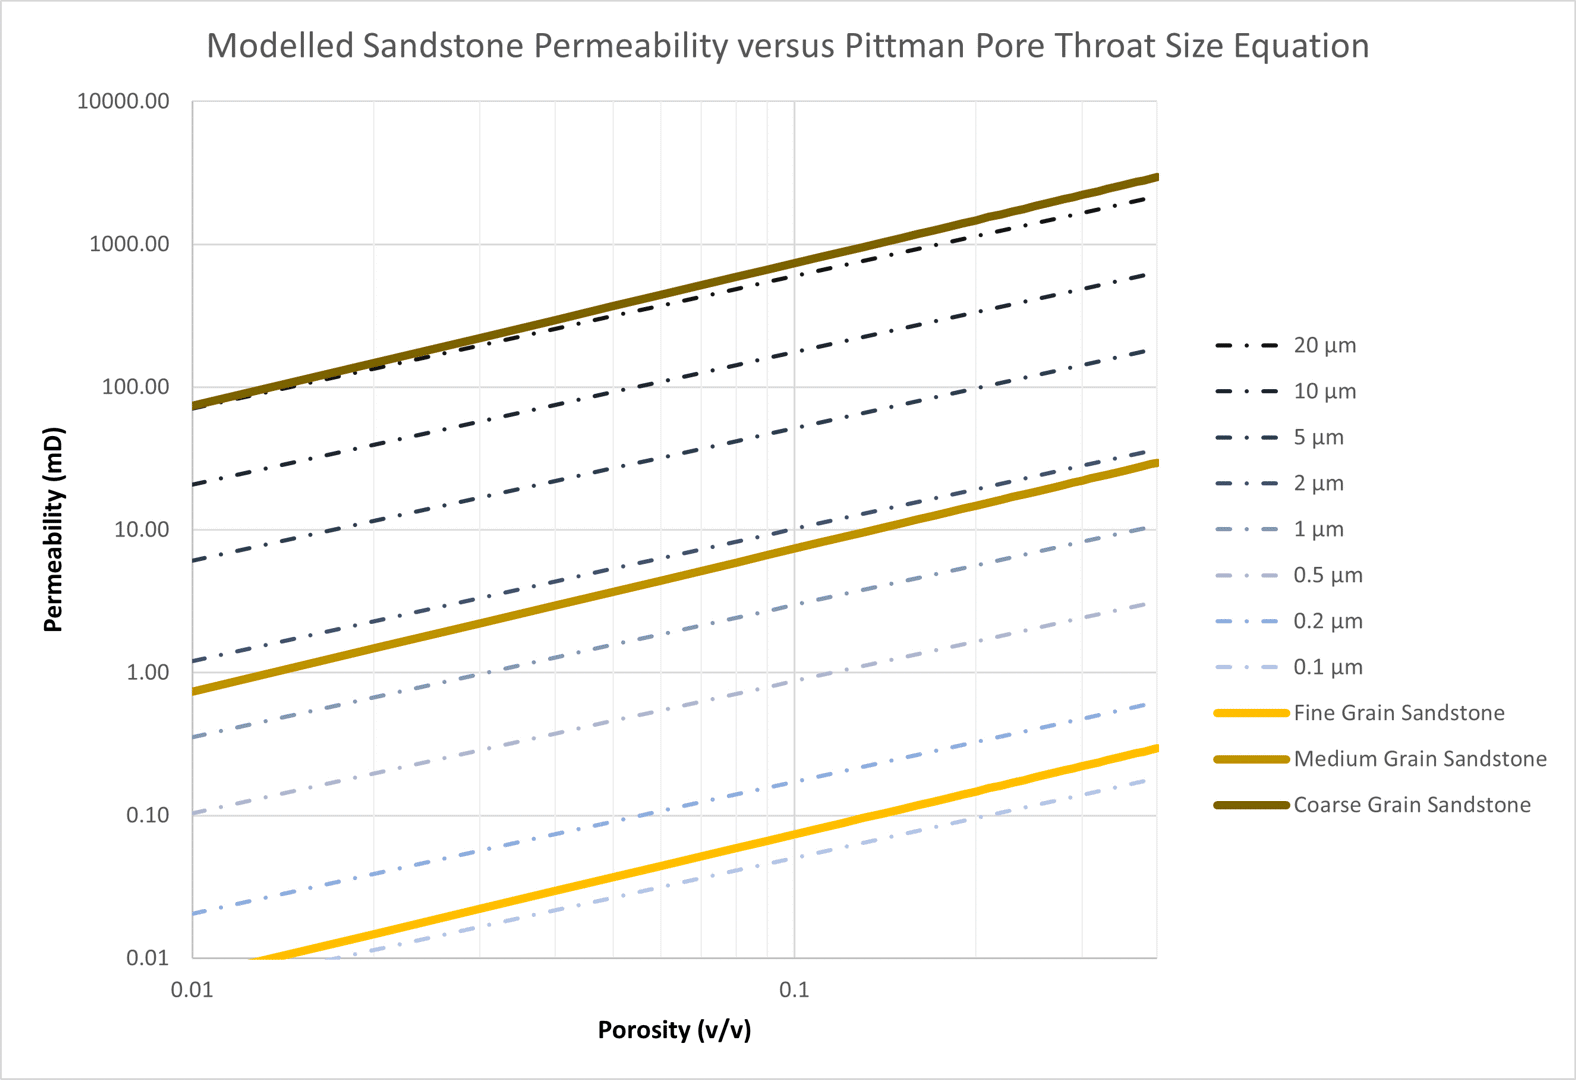
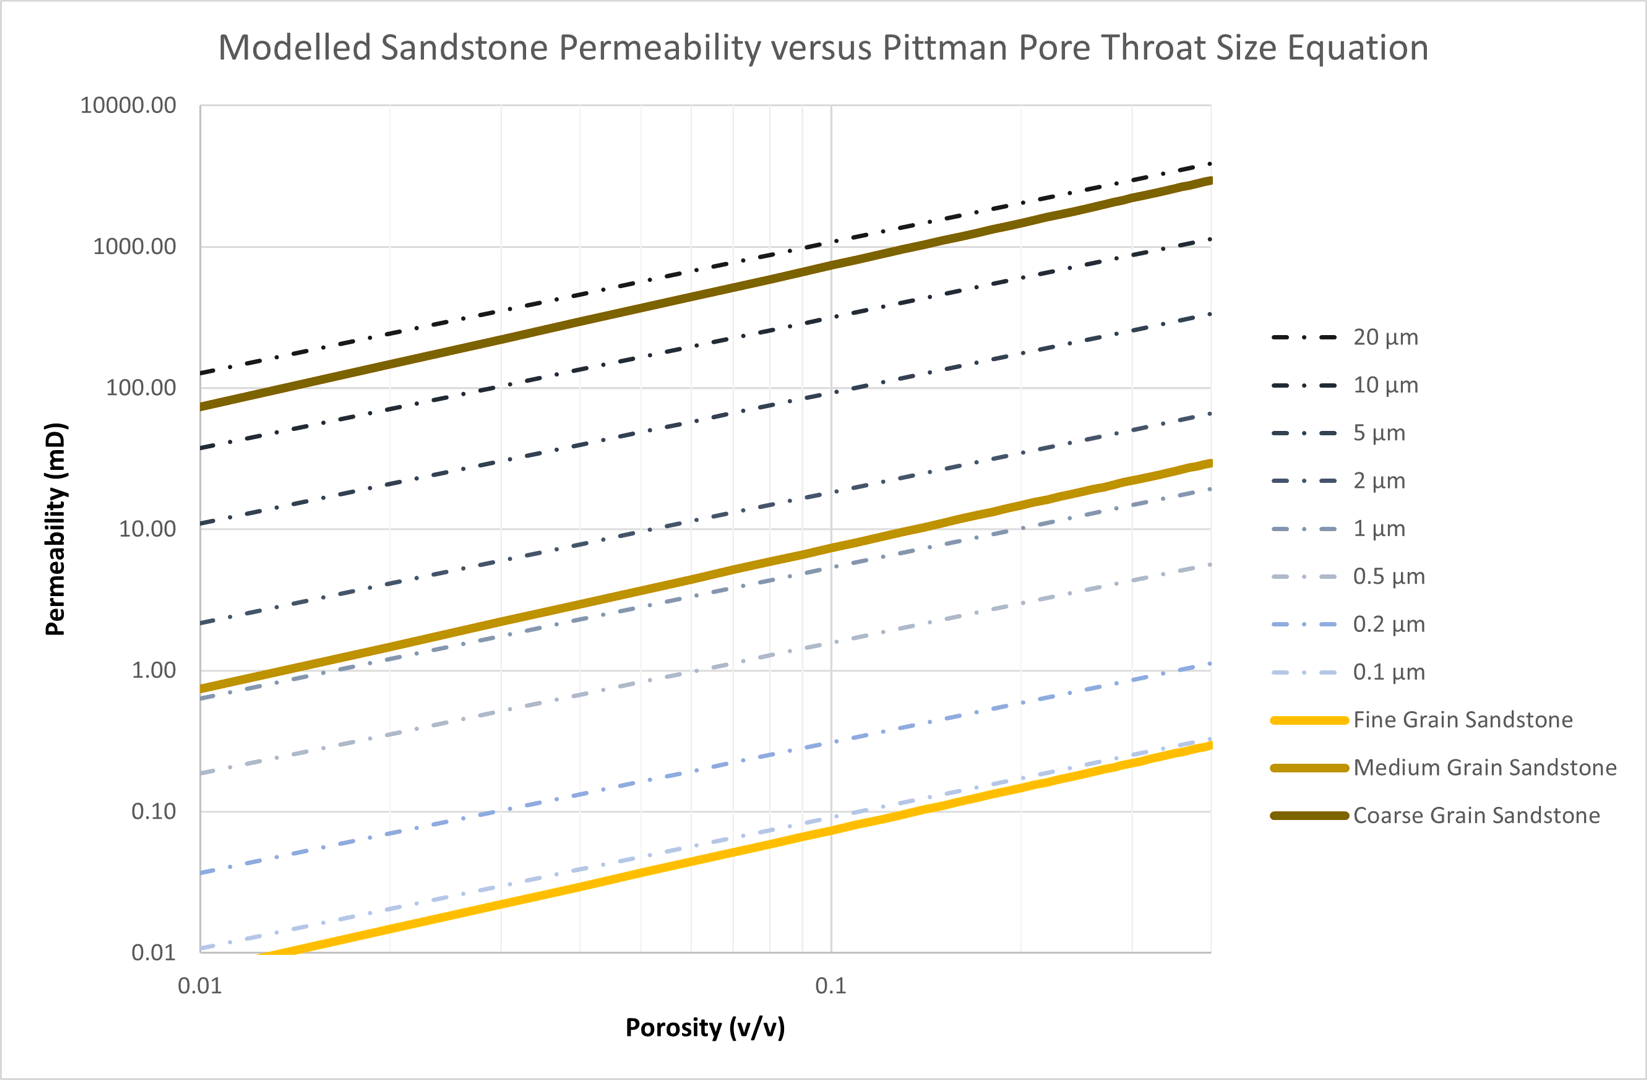
Corrections to several blog posts
Fix Leverett J-Function equation, link to Muller-Huber et al. paper on pore throat and pore body ratios, added correction necessary for BIPs when using translated-corrected EoS, corrected Pittman pore throat figure.

diff --git a/_posts/analysis/2021-09-15-fluid-properties-and-equation-of-state.md b/_posts/analysis/2021-09-15-fluid-properties-and-equation-of-state.md
@@ -268,6 +268,12 @@ The L and M parameters are then determined based on acentric factor alone as fol
 
 ![M=0.176\omega^2+0.26\omega+0.8884](https://latex.codecogs.com/gif.latex?M=0.176\omega^2+0.26\omega+0.8884)
 
+Alternatively a generalised update to the Soave α-function in the Peng-Robinson EoS is proposed by [Pina-Martinez, Privat, Jaubert and Peng (2018)](https://doi.org/10.1016/j.fluid.2018.12.007) as follows:
+
+![m=0.3919+1.4996\omega-0.2721\omega^2+0.1063\omega^3](https://latex.codecogs.com/gif.latex?m=0.379642+1.48503\omega-0.164423\omega^2+0.016667\omega^3)
+
+This generalised α-function is more accurate the the original for very heavy molecules (acentric factor ω is larger than 0.9).
+
 #### Volume Translation
 
 The equation of state must be solved iteratively to determine the liquid and vapour phase fractions for each component such that the fugacity of each phase is equal. At this point equilibrium is obtained. This ‘flash’ calculation is computationally intensive and its details are not described here. Once equilibrium has been determined, the mole fractions that make up the composition of the liquid and vapour phases can be determined as x<sub>i</sub> for the liquid phase and y<sub>i</sub> for the vapour phase.
@@ -290,6 +296,15 @@ Guennec et al. also propose a generalised correlation for the volume shift based
 
 #### Modification to Binary Interaction Parameters
 
-The accuracy of any cubic EoS is affected by both a combination of the choice of α-function and the choice of mixing rules.
+The accuracy of any cubic EoS is affected by both a combination of the choice of Soave α-function and the choice of mixing rules.
 
-The PPR78 binary interaction parameters were determined using the α-function of the classical Peng-Robinson EoS. Therefore use of translated-consistent values requires that the BIPs are adjusted to correspond to the consistent α-function that is used.
+The PPR78 binary interaction parameters were determined using the α-function of the classical Peng-Robinson EoS. Therefore, as noted by [Pina-Martinez, Privat, Jaubert and Peng (2018)](https://doi.org/10.1016/j.fluid.2018.12.007) use of translated-consistent values requires that the BIPs are adjusted to correspond to the consistent α-function that is used. This is because the value of k<sub>ij</sub> is specific to the the choice of α-function.
+
+![k_{ij}^{updated}=\frac{2k_{ij}^{original}\delta_{i}^{original}\delta_{j}^{original}+(\delta_{i}^{original}-\delta_{j}^{original})^2-(\delta_{i}^{updated}-\delta_{j}^{updated})^2}{2\delta_{i}^{updated}\delta_{j}^{updated}}](https://latex.codecogs.com/gif.latex?k_{ij}^{updated}=\frac{2k_{ij}^{original}\delta_{i}^{original}\delta_{j}^{original}+(\delta_{i}^{original}-\delta_{j}^{original})^2-(\delta_{i}^{updated}-\delta_{j}^{updated})^2}{2\delta_{i}^{updated}\delta_{j}^{updated}})
+
+Where:
+
+!}[\delta_{i}^{original}=\frac{\sqrt{a_{c,i}\cdot\alpha_{i}^{original}}}{b_i}](https://latex.codecogs.com/gif.latex?\delta_{i}^{original}=\frac{\sqrt{a_{c,i}\cdot\alpha_{i}^{original}}}{b_i})<br>
+!}[\delta_{i}^{updated}=\frac{\sqrt{a_{c,i}\cdot\alpha_{i}^{updated}}}{b_i}](https://latex.codecogs.com/gif.latex?\delta_{i}^{updated}=\frac{\sqrt{a_{c,i}\cdot\alpha_{i}^{updated}}}{b_i})
+
+Pina-Martinez et al. note that when they tested the effect on k<sub>ij</sub> for several binary systems, the change in value was small between the original and updated correlation. Thus the use of existing k<sub>ij</sub> values associated with the classical α-function for Peng-Robinson EoS could continue to be used although the authors note that updating the values is advised.

diff --git a/_posts/analysis/2021-09-14-saturation-height-function.md b/_posts/analysis/2021-09-14-saturation-height-function.md
@@ -116,7 +116,7 @@ To generate a saturation height function we re-arrange the equations using the f
 
 We define the Leverett J-Function as:
 
-![J\left(S_{w}\right)=\frac{4.61678\cdot{P_{c'}}}{\sigma\cdot{\cos\theta}}\sqrt{\frac{k}{\phi}}](https://latex.codecogs.com/gif.latex?J\left(S_{w}\right)=\frac{4.61678\cdot{P_{c'}}}{\sigma\cdot{\cos\theta}}\sqrt{\frac{k}{\phi}})
+![J\left(S_{w}\right)=\frac{0.216601\cdot{P_{c'}}}{\sigma\cdot{\cos\theta}}\sqrt{\frac{k}{\phi}}](https://latex.codecogs.com/gif.latex?J\left(S_{w}\right)=\frac{4.61678\cdot{P_{c'}}}{\sigma\cdot{\cos\theta}}\sqrt{\frac{k}{\phi}})
 
 Where:
 
@@ -126,7 +126,8 @@ k = Rock permeability, millidarcy<br>
 σ = Interfacial tension, dynes/cm<br>
 θ = Contact angle, degrees
 
-The constant 4.61678 is a result of the units chosen in the equation such that J is a dimensionless quantity.
+The constant 0.216601 = (1 / 4.61678) is a result of the units chosen in the equation such that J is a dimensionless quantity. If we convert our values in psia, mD and dyne to consistent units, we can derive a dimensionless J-Function. We note that 1 mD = 9.869233E-12 cm^2, 1 psia = 0.155 lbf/cm^2 and 1 dyne = 2.248089E-6 lbf. Therefore we need to multiply by (0.155 / 2.2481E-6) * SQRT(9.8692E-12) = 0.216601.
+
 The interfacial tension can be calculated using the Firoozabadi and Ramey (1988) correlation for oil-water or Sutton (2009) for gas-water. Sigma is typically 15 to 35 for oil-water IFT and 35 to 70 for gas-water IFT. We assume a contact angle θ for gas-water of 0° or 30° for oil-water. The equation to determine water saturation can be derived from a re-arrangement of the Wu capillary pressure function expressed in S<sub>w</sub> and substituting for J(S<sub>w</sub>) as follows:
 
 ![S_{w}=\frac{\left(1-S_{wirr}\right)}{e^{J^{\frac{1}{\beta}}}}+S_{wirr}](https://latex.codecogs.com/gif.latex?S_{w}=\frac{\left(1-S_{wirr}\right)}{e^{J^{\frac{1}{\beta}}}}+S_{wirr})

diff --git a/_posts/analysis/2021-09-10-rock-model-for-reservoir-simulation.md b/_posts/analysis/2021-09-10-rock-model-for-reservoir-simulation.md
@@ -71,7 +71,7 @@ In a water-wet rock, the irreducible water is bound to the surface of the rock m
 
 Longer flow paths correspond to an increase in cementation exponent, along with an increase in the ratio between r<sub>b</sub> and r<sub>t</sub>. This means that there is a relationship between the cementation exponent and the pore geometry, and therefore it is only necessary to define one of r<sub>b</sub> and r<sub>t</sub> if the tortuosity is defined, since the ratio r<sub>b</sub>/r<sub>t</sub> will depend on the tortuosity.
 
-To mathematically relate cementation exponent to the pore geometry a theoretical pore channel model was constructed by (Müller-Huber, Schön, & Börner, 2015) which includes a variable pore radius. This is a modification to the simple capillary tube model. The pore throat radius is defined as r<sub>t</sub> at the narrow end of the channel and this radius increases to a radius of r<sub>b</sub> at the pore body.
+To mathematically relate cementation exponent to the pore geometry a theoretical pore channel model was constructed by ([Müller-Huber, Schön, & Börner, 2015](http://dx.doi.org/10.1016/j.jappgeo.2015.03.011)) which includes a variable pore radius. This is a modification to the simple capillary tube model. The pore throat radius is defined as r<sub>t</sub> at the narrow end of the channel and this radius increases to a radius of r<sub>b</sub> at the pore body.
 
 <figure>
 	<a href="{{ site.url }}/images/Analysis/Rock Model/modified-pore-channel-model.png" data-lightbox="image-2" data-title="Mathematical basis for modified pore channel model relating pore throat and body radii to the cementation exponent.">
